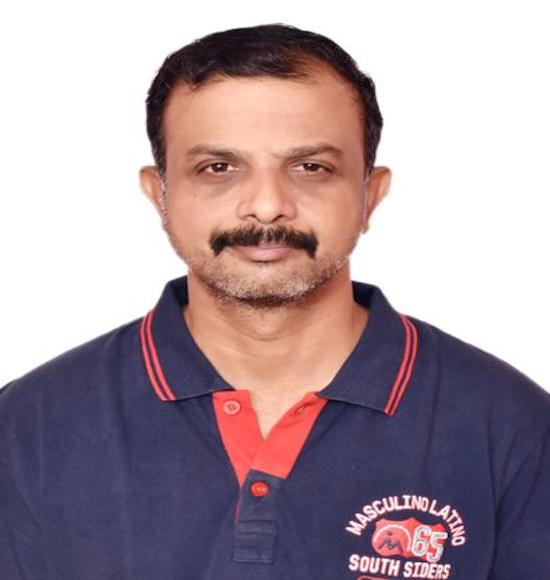
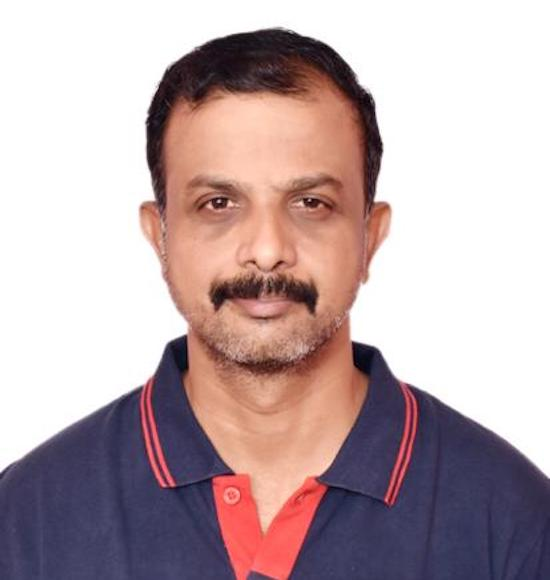
Updated team member picture Show three pic of tem all the time

diff --git a/index.html b/index.html
@@ -5,11 +5,11 @@
     <meta charset="utf-8">
     <meta content="width=device-width, initial-scale=1, shrink-to-fit=no" name="viewport">
     <!-- Author -->
-    <meta name="author" content="Themes Industry">
+    <meta name="author" content="MCOWA">
     <!-- description -->
-    <meta name="description" content="MegaOne is a highly creative, modern, visually stunning and Bootstrap responsive multipurpose studio and portfolio HTML5 template with 8 ready home page demos.">
+    <meta name="description" content="Casagrand: Monte Carlo Owners' Welfare Association">
     <!-- keywords -->
-    <meta name="keywords" content="Creative, modern, clean, bootstrap responsive, html5, css3, portfolio, blog, studio, templates, multipurpose, one page, corporate, start-up, studio, branding, designer, freelancer, carousel, parallax, photography, studio, masonry, grid, faq">
+    <meta name="keywords" content="montecarlo, monte-carlo, monte carlo, saidapet, little-mount, littlemount, chennai, mount-road, mount road, mountroad, casagrand, casa-grand, apartment">
     <!-- Page Title -->
     <title>Monte Carlo Owners' Welfare Association | MCOWA.org</title>
     <!-- Favicon -->
@@ -191,7 +191,7 @@
 </section>
 <!--End Rev Slider-->
 <!--Team Section-->
-<section id="team" class="#team-slider">
+<section id="team" class="team-slider">
     <div class="container">
         <!--Heading-->
         <div class="row wow fadeIn">
@@ -210,7 +210,7 @@
                     <div class="team-box item">
                         <!--Team Image-->
                         <div class="team-image">
-                            <img src="realestate/img/team-mem-shankar.jpeg" alt="image">
+                            <img src="realestate/img/team-mem-shankar.jpeg" alt="Sankar-President">
                         </div>
                         <!--Team Text-->
                         <div class="team-text">
@@ -223,7 +223,7 @@
                     <div class="team-box item">
                         <!--Team Image-->
                         <div class="team-image">
-                            <img src="realestate/img/team-mem-arun.jpeg" alt="image">
+                            <img src="realestate/img/team-mem-arun.jpeg" alt="Arun-Secretary">
                         </div>
                         <!--Team Text-->
                         <div class="team-text">
@@ -236,7 +236,7 @@
                     <div class="team-box item">
                         <!--Team Image-->
                         <div class="team-image">
-                            <img src="realestate/img/team-mem-3.jpg" alt="image">
+                            <img src="realestate/img/team-mem-balaji.jpeg" alt="Balaji-Treasurer">
                         </div>
                         <!--Team Text-->
                         <div class="team-text">

diff --git a/realestate/js/script.js b/realestate/js/script.js
@@ -579,21 +579,20 @@ jQuery(function ($) {
 
     $("#team-slider").owlCarousel({
         items: 3,
-        margin: 0,
-        nav:true,
-        dots:true,
+        nav:false,
+        dots:false,
         responsive: {
             992: {
                 items: 3,
             },
             991: {
-                items: 2,
+                items: 3,
             },
             767: {
-                items: 1,
+                items: 3,
             },
             320: {
-                items: 1,
+                items: 3,
             },
         }
     });
